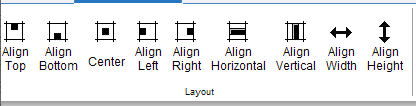
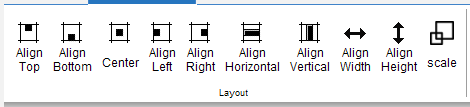
Issue 192-Project Screen Size change with change of all existed elements

diff --git a/builder/src/main/java/builder/controller/Controller.java b/builder/src/main/java/builder/controller/Controller.java
@@ -39,6 +39,7 @@ import java.io.FileOutputStream;
 import java.io.IOException;
 import java.io.ObjectInputStream;
 import java.io.ObjectOutputStream;
+import java.text.NumberFormat;
 import java.util.ArrayList;
 import java.util.Base64;
 import java.util.List;
@@ -53,6 +54,7 @@ import java.util.prefs.Preferences;
 */
 
 import javax.swing.ImageIcon;
+import javax.swing.JFormattedTextField;
 import javax.swing.JFrame;
 import javax.swing.JInternalFrame;
 import javax.swing.JOptionPane;
@@ -61,6 +63,7 @@ import javax.swing.JTabbedPane;
 import javax.swing.SwingUtilities;
 import javax.swing.event.ChangeEvent;
 import javax.swing.event.ChangeListener;
+import javax.swing.text.NumberFormatter;
 
 import builder.Builder;
 import builder.codegen.CodeGenerator;
@@ -1304,6 +1307,65 @@ public class Controller extends JInternalFrame
       currentPage.rectangularSelection(false);
     }
   }
+  
+  public void scale() {
+    NumberFormat format = NumberFormat.getInstance();
+    format.setGroupingUsed(false);
+    NumberFormatter formatter = new NumberFormatter(format);
+    formatter.setValueClass(Integer.class);
+    formatter.setMaximum(65535);
+    formatter.setAllowsInvalid(false);
+    formatter.setCommitsOnValidEdit(true);
+    JFormattedTextField txtOldWidth = new JFormattedTextField(formatter);
+    JFormattedTextField txtOldHeight = new JFormattedTextField(formatter);
+
+    Object[] message = {
+        "Old Screen Width:", txtOldWidth,
+        "Old Screen Height:", txtOldHeight,
+        "\nWARNING: Requires a new screen size to have been set"
+        + "\ninside Project Options before running this command.\n"
+        + "Users may need to change fonts manually, if required.\n"
+        + "Also this command has no UNDO!"
+    };
+    
+    int option = JOptionPane.showConfirmDialog(null, message, "Scale Elements", JOptionPane.OK_CANCEL_OPTION);
+    if (option != JOptionPane.OK_OPTION) {
+      Builder.logger.debug("Scale canceled");
+    }
+    try {
+      int oldWidth = Integer.valueOf(txtOldWidth.getText());
+      int oldHeight = Integer.valueOf(txtOldHeight.getText());
+      ProjectModel pm = getProjectModel();
+      int newWidth = pm.getWidth();
+      int newHeight = pm.getHeight();
+      if (oldWidth == newWidth && oldHeight == newHeight) {
+        JOptionPane.showConfirmDialog(null, 
+            "Did you forget to first change to a\nnew screen size inside Project Options?\n",
+             "Error!",
+            JOptionPane.PLAIN_MESSAGE);
+        
+        if (option != JOptionPane.OK_OPTION) {
+          Builder.logger.debug("Scale canceled");
+          return;
+        }
+      }
+      // calcualte our scaling ratios
+      double ratioX = (double)newWidth / (double)oldWidth;
+      double ratioY = (double)newHeight / (double)oldHeight;
+      Builder.logger.debug("Scale ratioX: "+ratioX+" ratioY: "+ratioY);
+      // now we can walk the pages and resize each of the elements
+      for (PagePane p : pages) {
+        p.scale(ratioX, ratioY);
+      } 
+      refreshView();
+      Builder.logger.debug("Scale command completed");
+    } catch (NumberFormatException e) {
+      JOptionPane.showConfirmDialog(null, "Input must be number!", "Error!",
+          JOptionPane.PLAIN_MESSAGE);
+      return;
+    }
+  }
+  
   
   /**
    * cut widgets

diff --git a/builder/src/main/java/builder/views/PagePane.java b/builder/src/main/java/builder/views/PagePane.java
@@ -1156,5 +1156,33 @@ public class PagePane extends JPanel implements iSubscriber {
       bPaintBaseWidgets=true;
     }
   }
+  
+  /**
+   * scale
+   * scale each element acccording to the supplied ratios
+   * this will change each element's width, height, x, and y positions.
+   * Fonts will be ignored since there is no font scaling within GUIslice API
+   * so exact or even close matches may no be possible.  Users may need to
+   * manually change fonts. Although, generally fonts will simply work without
+   * any changes.
+   * 
+   * @param ratioX
+   * @param ratioY
+   */
+  public void scale(double ratioX, double ratioY) {
+    int newX, newY, newHeight, newWidth;
+    for (Widget w : widgets) {
+      WidgetModel m = w.getModel();
+      newX = (int)(((double)m.getX() * ratioX) + 0.5);
+      newY = (int)(((double)m.getY() * ratioX) + 0.5);
+      newWidth = (int)(((double)m.getWidth() * ratioX) + 0.5);
+      newHeight = (int)(((double)m.getHeight() * ratioX) + 0.5);
+      m.setX(newX);
+      m.setY(newY);
+      m.setWidth(newWidth);
+      m.setHeight(newHeight);
+    }
+  }
+  
 }
 

diff --git a/builder/src/main/java/builder/views/Ribbon.java b/builder/src/main/java/builder/views/Ribbon.java
@@ -70,7 +70,7 @@ public class Ribbon extends JPanel {
   /** The alignment buttons. */
   private static Button btn_aligntop,btn_alignbottom, btn_aligncenter,
     btn_alignleft,btn_alignright,btn_alignhspace,
-    btn_alignvspace,btn_alignwidth, btn_alignheight;
+    btn_alignvspace,btn_alignwidth, btn_alignheight, btn_scale;
 
   static Ribbon instance;
   
@@ -395,6 +395,12 @@ public class Ribbon extends JPanel {
     btn_alignheight.setActionCommand("alignheight");
     btn_alignheight.addToolTip("Align Elements to a Uniform Element's Height");
     
+    btn_scale = band.addButton("scale");
+    btn_scale.setImage(Util.accessImageFile(
+        "resources/icons/layout/scale.png"));
+    btn_scale.setActionCommand("scale");
+    btn_scale.addToolTip("Scale elements to a new screen size");
+    
     band.addSeperator();
   }
 
@@ -497,6 +503,7 @@ public class Ribbon extends JPanel {
     btn_alignvspace.addActionListener(al);
     btn_alignwidth.addActionListener(al);
     btn_alignheight.addActionListener(al);
+    btn_scale.addActionListener(al);
 
 //    btn_selection.addActionListener(al);
 

diff --git a/builder/src/main/java/builder/views/RibbonListener.java b/builder/src/main/java/builder/views/RibbonListener.java
@@ -658,6 +658,11 @@ public class RibbonListener implements ActionListener {
       }
       break;
       
+    case "scale":
+      Builder.logger.debug("Toolbar: scale");
+      controller.scale();
+      break;
+  
     case "seekbar":
       Builder.logger.debug("Toolbar: seekbar");
       createWidget(EnumFactory.SEEKBAR);

diff --git a/builder/docs/user_guide.md b/builder/docs/user_guide.md
@@ -6,7 +6,7 @@
         User Guide
     </H2>
     <H3>
-        Ver: 0.17.b04
+        Ver: 0.17.b07
     </H3>
 </center>
 
@@ -14,7 +14,7 @@
 
 **Publication date and software version**
 
-Published February, 2022. Based on GUIslice API Library 0.17.0
+Published February 15, 2022. Based on GUIslice API Library 0.17.0
 
 **Copyright**
 
@@ -425,6 +425,16 @@ Now click the Align Height button.
 This gives you:
 
 ![](images/height_after.png)
+
+-----------------------------------------------
+<div style="page-break-after: always;"></div>
+
+### Scale ![](images/controls/scale.png)
+
+Scale each element acccording to the supplied ratios this will change each element's width, height, x, and y positions.
+
+Fonts will be ignored since there is no font scaling within GUIslice API so exact or even close matches may no be possible. Users may need to manually change fonts. Although generally Fonts will appear correctly on larger or smaller screen without doing anything.
+
 
 -----------------------------------------------
 <div style="page-break-after: always;"></div>
@@ -1727,6 +1737,10 @@ The "Copy Properties" (exam) icon ![](images/layout/copy_props.png) was created 
 The "Page" (Tablet) ![](images/controls/page_32x.png) and "Image" (Camera) ![](images/controls/image_32x.png) and "Widget" (Puzzle) icons ![](images/controls/widget.png) were provided by:
 
 https://github.com/icons8/flat-color-icons
+
+The "Scale" ![](images/controls/scale.png) 
+<div><a href="https://www.flaticon.com/free-icons/photoshop" title="photoshop icons">Photoshop icons created by Freepik - Flaticon</a></div>
+
 
 -----------------------------------------------
 <div style="page-break-after: always;"></div>

diff --git a/README.md b/README.md
@@ -33,7 +33,12 @@ The Builder source code is located in this repository [ImpulseAdventure/GUIslice
 ## Release History
 
 ### Enhancements for 0.17.b07
+Added new scaling command in the layout tab to allow automatic updating of elements x,y,width and height due to TFT screen display change of size. 
+Also, you can now change the Scrollbar width and thumb sizes for Listboxes and Textboxes.
+Our User Guide has been updated accordingly.
+
 - Issue `194` Request: Scroll bar set width and thumb size in textbox and listbox
+- Issue `192` Request: Project Screen Size change with change of all existed elements
 
 ### Hot Fix 0.17.b06
 - Issue `#190` Input Elements Height/Width reset to default when moved
@@ -49,7 +54,7 @@ Now supports saving the current project's zoom factor inside the *.prj file so i
 ### Enhancements for 0.17.b03
 - Issue `#147` Allow multiline text for text button
 NOTE: Sizing of a Text button using multiple lines of text is the users responsiblity. You will need to set 
-the height and width manually.  Ending each line inside the Label with \n. Example, "line1\nline2\nline3".
+the height and width manually.  Ending each line inside the Label with "\n". Example, "line1\nline2\nline3".
 The Builder will remove each \n and replace with a decimal 10 (newline) when you press enter key.
 
 ### Hot Fix 0.17.b02
